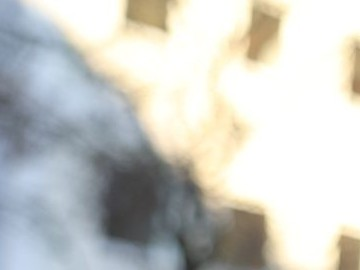
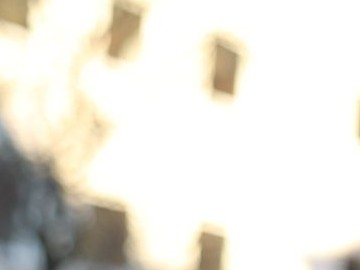
update

diff --git a/static/js/compare.js b/static/js/compare.js
@@ -1,6 +1,6 @@
 (function () {
   const ROOT = 'static/images/compare';
-  const VERSION = 'v=3';
+  const VERSION = 'v=4';
 
   const LABELS = {
     input: 'Input',
@@ -33,7 +33,7 @@
         { id: '119_f13_119_f4.0', setting: 'f/13 → f/4.0', baselines: A2A, crop: [0.4312, 0.02, 0.3, 0.3] },
         { id: '51_f2.0_51_f8.0', setting: 'f/2.0 → f/8.0', baselines: A2A, crop: [0.685, 0.1983, 0.3, 0.3] },
         { id: '66_f16_66_f2.5', setting: 'f/16 → f/2.5', baselines: A2A, crop: [0.3075, 0.26, 0.3, 0.3] },
-        { id: '25_f22_25_f2.0', setting: 'f/22 → f/2.0', baselines: A2A, crop: [0.03, 0.02, 0.3, 0.3] },
+        { id: '25_f22_25_f2.0', setting: 'f/22 → f/2.0', baselines: A2A, crop: [0.1462, 0.0233, 0.3, 0.3] },
         { id: '186_f8.0_186_f14', setting: 'f/8.0 → f/14', baselines: A2A, crop: [0.685, 0.515, 0.3, 0.3] },
       ],
     },

diff --git a/index.html b/index.html
@@ -25,7 +25,7 @@
   <script defer src="static/js/demo.js?v=6"></script>
   <script defer src="static/js/method.js?v=3"></script>
   <script defer src="static/js/stage1.js?v=2"></script>
-  <script defer src="static/js/compare.js?v=13"></script>
+  <script defer src="static/js/compare.js?v=14"></script>
   <script defer src="static/js/fingerprint.js?v=1"></script>
   <script defer src="static/js/nav.js?v=3"></script>
   <script defer src="static/js/visitors.js?v=1"></script>
